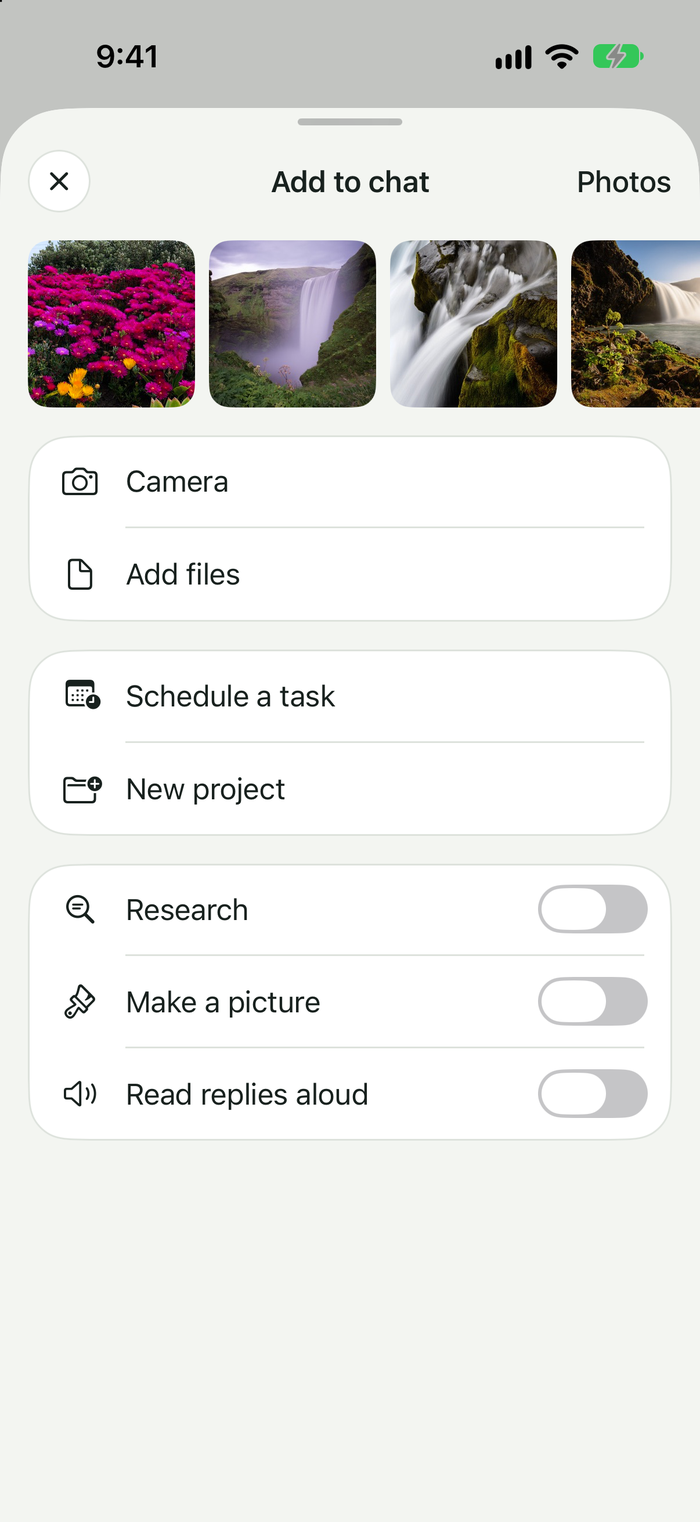
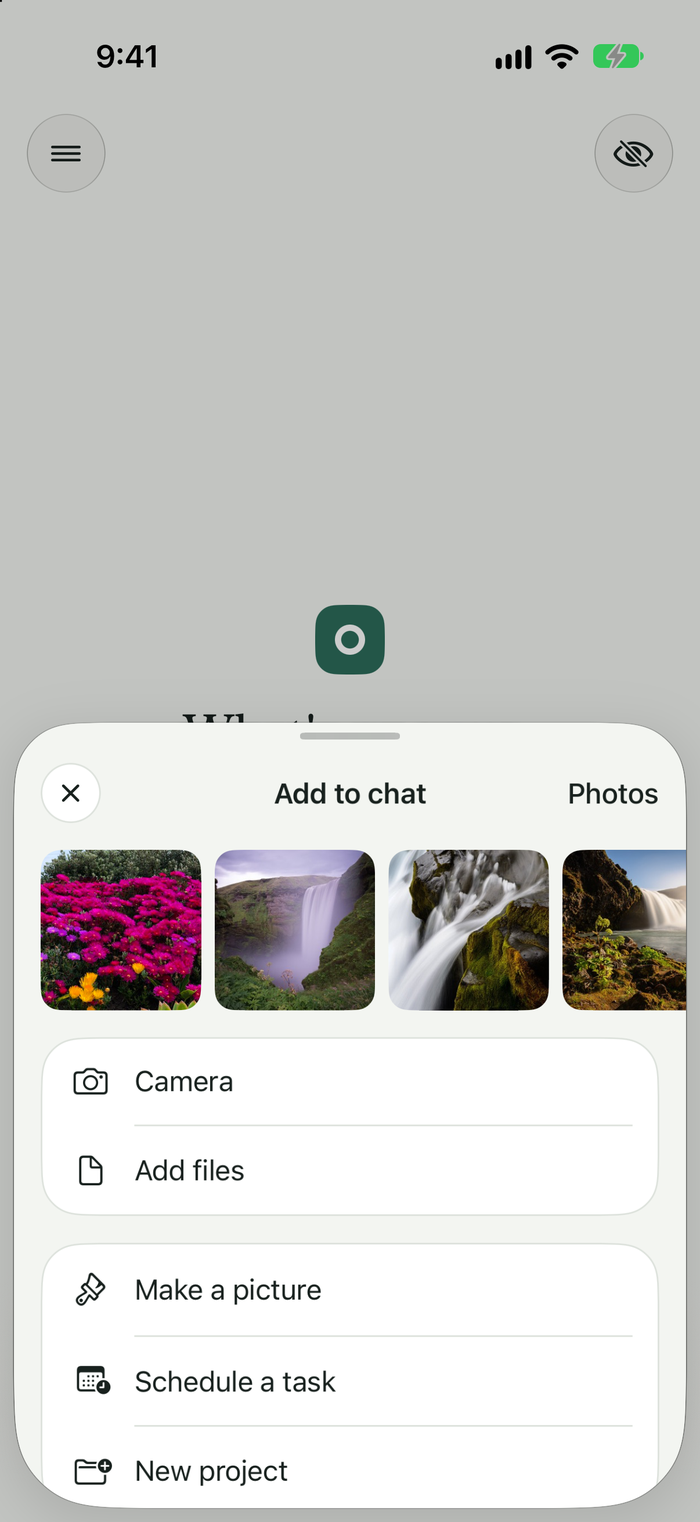
feat: choose a picture as a row, add its photo from the composer, and switch research from the model sheet too - Update `AttachmentMenu.swift`, `AttachmentSheet.swift` picture mode is a row that closes the sheet, ticked while it is on - Create `PicturePhotoButton.swift` beside the picture chip, adds

diff --git a/HearthKit/Sources/HearthUI/Screens/Chat/Components/AttachmentSheet.swift b/HearthKit/Sources/HearthUI/Screens/Chat/Components/AttachmentSheet.swift
@@ -3,8 +3,8 @@ import SwiftUI
 import UIKit
 
 /// What the plus button opens on a phone or a tablet: a heading with the way out and the photo library either side
-/// of it, then cards of rows. The first card holds the things to add, the second the things to make, and the last
-/// the switches, which are thrown where they stand without closing the sheet.
+/// of it, the latest photos, then cards of rows. The first card holds the things to add, the second the things to
+/// make, and the last the switches, which are thrown where they stand without closing the sheet.
 struct AttachmentSheet: View {
     private static let closeButtonSide: CGFloat = 36
 
@@ -137,47 +137,33 @@ struct AttachmentSheet: View {
     /// A row that does something and closes the sheet.
     private func row(_ choice: AttachmentChoiceKind) -> some View {
         let isEnabled = isEnabled(choice)
+        let isOn = isOn(choice)
         return Button(action: { chooseAction(choice) }, label: {
-            label(choice)
-                .padding(.horizontal, HearthSpacing.s16)
-                .padding(.vertical, HearthSpacing.s16)
-                .contentShape(Rectangle())
+            HStack(spacing: HearthSpacing.s12) {
+                label(choice)
+                // A row that is on, such as picture mode, says so with a tick; tapping it again turns it off.
+                Image(systemName: "checkmark")
+                    .font(.hearth(.footnote).weight(.semibold))
+                    .foregroundStyle(HearthColor.pine)
+                    .opacity(isOn ? 1 : 0)
+                    .accessibilityHidden(true)
+            }
+            .padding(.horizontal, HearthSpacing.s16)
+            .padding(.vertical, HearthSpacing.s16)
+            .contentShape(Rectangle())
         })
         .buttonStyle(.plain)
         .disabled(!isEnabled)
         .opacity(isEnabled ? 1 : 0.4)
         .accessibilityLabel(choice.title)
+        .accessibilityAddTraits(isOn ? .isSelected : [])
     }
 
     /// A row with a switch, thrown by a tap anywhere on the row.
     private func switchRow(_ choice: AttachmentChoiceKind) -> some View {
-        AttachmentSwitch(isOn: isOn(choice), toggleAction: { toggleAction(choice) }, label: { label(choice) })
+        ActionSwitch(isOn: isOn(choice), toggleAction: { toggleAction(choice) }, label: { label(choice) })
             .padding(.horizontal, HearthSpacing.s16)
             .padding(.vertical, HearthSpacing.s12)
-    }
-}
-
-/// A switch that shows what it is told is so, and asks for a change when it is thrown.
-///
-/// The switch keeps its own position while it moves and is set right again by whatever it is told, so a change
-/// that is refused, or one made elsewhere, is shown as it is.
-private struct AttachmentSwitch<Label: View>: View {
-    let isOn: Bool
-    let toggleAction: () -> Void
-    @ViewBuilder let label: () -> Label
-
-    @State private var position = false
-
-    var body: some View {
-        Toggle(isOn: $position, label: label)
-            .tint(HearthColor.pine)
-            .onAppear { position = isOn }
-            .onChange(of: isOn) { position = isOn }
-            .onChange(of: position) {
-                if position != isOn {
-                    toggleAction()
-                }
-            }
     }
 }
 

diff --git a/HearthKit/Sources/HearthUI/Screens/Chat/Components/AttachmentMenu.swift b/HearthKit/Sources/HearthUI/Screens/Chat/Components/AttachmentMenu.swift
@@ -60,16 +60,13 @@ enum AttachmentChoiceKind: Identifiable, Hashable {
 }
 
 /// The plus button: photos from the library or the camera for models that can see, files for any model,
-/// the switches that have the next message researched or answered with a picture and have replies read aloud, a scheduled task asking
+/// the switches that have the next message researched and have replies read aloud, picture mode, a scheduled task asking
 /// what is being written, and a new project.
 ///
 /// On a phone or a tablet it opens a sheet from the foot of the screen; on a Mac, a menu at the pointer.
 struct AttachmentMenu: View {
-    private static let maximumPhotoCount = 4
-
     let presenter: ChatPresenter
 
-    @State private var pickedItems: [PhotosPickerItem] = []
     @State private var isPhotoPickerPresented = false
     @State private var isCameraPresented = false
     @State private var isFileImporterPresented = false
@@ -84,15 +81,7 @@ struct AttachmentMenu: View {
             .fixedSize()
             .accessibilityLabel(Strings.addMenu)
             .largeContentLabel(Strings.addMenu, systemImage: "plus")
-            .photosPicker(isPresented: $isPhotoPickerPresented, selection: $pickedItems, maxSelectionCount: Self.maximumPhotoCount, matching: .images)
-            .onChange(of: pickedItems) {
-                let items = pickedItems
-                guard !items.isEmpty else {
-                    return
-                }
-                pickedItems = []
-                Task { presenter.addImagesAction(await PhotoLoader.jpegData(from: items)) }
-            }
+            .photoAttaching(isPresented: $isPhotoPickerPresented, presenter: presenter)
             .fullScreenCover(isPresented: $isCameraPresented) {
                 CameraPicker { imageData in
                     presenter.addImagesAction([imageData])
@@ -113,13 +102,14 @@ struct AttachmentMenu: View {
 
     /// The switches: what the next message asks for, and how replies are given.
     private var switches: [AttachmentChoiceKind] {
-        (presenter.isSearchAvailable ? [.research] : [])
-            + (presenter.isPictureAvailable ? [.pictureMode] : [])
-            + (presenter.isSpeechAvailable ? [.readAloud] : [])
+        (presenter.isSearchAvailable ? [.research] : []) + (presenter.isSpeechAvailable ? [.readAloud] : [])
     }
 
-    /// The things to make.
-    private var makers: [AttachmentChoiceKind] { [.scheduleTask, .newProject] }
+    /// The things to make. A picture is one of them: choosing it closes the sheet with the composer ready for
+    /// what the picture should show, and a photo to change is added from the composer itself.
+    private var makers: [AttachmentChoiceKind] {
+        (presenter.isPictureAvailable ? [.pictureMode] : []) + [.scheduleTask, .newProject]
+    }
 
     private func isEnabled(_ choice: AttachmentChoiceKind) -> Bool {
         switch choice {

diff --git a/HearthKit/Sources/HearthUI/Screens/Chat/Components/ModelPickerSheet.swift b/HearthKit/Sources/HearthUI/Screens/Chat/Components/ModelPickerSheet.swift
@@ -31,6 +31,12 @@ struct ModelPickerSheet: View {
                 effortRow
                     .padding(.horizontal, HearthSpacing.s16)
                     .padding(.top, HearthSpacing.s8)
+                    .padding(.bottom, HearthSpacing.s8)
+            }
+            // The same switch as behind the plus button: thrown in either place, it shows in both.
+            if !isPictureMode, presenter.isSearchAvailable {
+                researchRow
+                    .padding(.horizontal, HearthSpacing.s16)
                     .padding(.bottom, HearthSpacing.s16)
             }
         }
@@ -96,6 +102,24 @@ struct ModelPickerSheet: View {
     /// The mark beside an option in the effort menu: a tick for the chosen one, and nothing for the rest.
     nonisolated static func menuSymbol(isChosen: Bool) -> String? {
         isChosen ? "checkmark" : nil
+    }
+
+    /// Whether the next messages of this chat are researched on the web. Apart from the effort, which a report is
+    /// thought about at like any reply.
+    private var researchRow: some View {
+        ActionSwitch(isOn: presenter.isResearchChosen, toggleAction: presenter.toggleResearchAction) {
+            VStack(alignment: .leading, spacing: HearthSpacing.s2) {
+                Text(Strings.researchSwitch)
+                    .font(.hearth(.body))
+                    .foregroundStyle(HearthColor.ink)
+                Text(Strings.researchDetail)
+                    .font(.hearth(.footnote))
+                    .foregroundStyle(HearthColor.mute)
+            }
+        }
+        .padding(.horizontal, HearthSpacing.s16)
+        .padding(.vertical, HearthSpacing.s12)
+        .cardSurface(radius: HearthRadius.bubble)
     }
 
     /// The effort that goes into a reply: how hard the chosen model thinks before it. A menu, since the choices are

diff --git a/HearthKit/Sources/HearthUI/Screens/Chat/Attachments/PhotoAttaching.swift b/HearthKit/Sources/HearthUI/Screens/Chat/Attachments/PhotoAttaching.swift
@@ -1,0 +1,33 @@
+import PhotosUI
+import SwiftUI
+
+/// Opens the system's photo picker and adds what is picked to the message being written.
+private struct PhotoAttaching: ViewModifier {
+    /// The most photos added at once.
+    private static let maximumPhotoCount = 4
+
+    @Binding var isPresented: Bool
+    let presenter: ChatPresenter
+
+    @State private var pickedItems: [PhotosPickerItem] = []
+
+    func body(content: Content) -> some View {
+        content
+            .photosPicker(isPresented: $isPresented, selection: $pickedItems, maxSelectionCount: Self.maximumPhotoCount, matching: .images)
+            .onChange(of: pickedItems) {
+                let items = pickedItems
+                guard !items.isEmpty else {
+                    return
+                }
+                pickedItems = []
+                Task { presenter.addImagesAction(await PhotoLoader.jpegData(from: items)) }
+            }
+    }
+}
+
+extension View {
+    /// Shows the photo picker while `isPresented` is set, and adds the photos picked to the presenter's message.
+    func photoAttaching(isPresented: Binding<Bool>, presenter: ChatPresenter) -> some View {
+        modifier(PhotoAttaching(isPresented: isPresented, presenter: presenter))
+    }
+}

diff --git a/HearthKit/Sources/HearthUI/DesignSystem/Components/ActionSwitch.swift b/HearthKit/Sources/HearthUI/DesignSystem/Components/ActionSwitch.swift
@@ -1,0 +1,25 @@
+import SwiftUI
+
+/// A switch that shows what it is told is so, and asks for a change when it is thrown.
+///
+/// The switch keeps its own position while it moves and is set right again by whatever it is told, so a change
+/// that is refused, or one made elsewhere, is shown as it is.
+struct ActionSwitch<Label: View>: View {
+    let isOn: Bool
+    let toggleAction: () -> Void
+    @ViewBuilder let label: () -> Label
+
+    @State private var position = false
+
+    var body: some View {
+        Toggle(isOn: $position, label: label)
+            .tint(HearthColor.pine)
+            .onAppear { position = isOn }
+            .onChange(of: isOn) { position = isOn }
+            .onChange(of: position) {
+                if position != isOn {
+                    toggleAction()
+                }
+            }
+    }
+}

diff --git a/HearthKit/Sources/HearthUI/Localization/Strings+Menus.swift b/HearthKit/Sources/HearthUI/Localization/Strings+Menus.swift
@@ -7,6 +7,7 @@ extension Strings {
     static let moveToProjectEllipsis = String(localized: "project.moveEllipsis", defaultValue: "Move to project…", bundle: .module)
     /// The composer's + button, which holds files and photos, pictures, a scheduled task and a new project.
     static let addToChat = String(localized: "composer.addTitle", defaultValue: "Add to chat", bundle: .module)
+    static let picturePhoto = String(localized: "picture.addPhoto", defaultValue: "Add a photo to change", bundle: .module)
     static let photos = String(localized: "composer.photos", defaultValue: "Photos", bundle: .module)
     static func recentPhoto(number: Int, total: Int) -> String {
         String(localized: "composer.recentPhoto", defaultValue: "Recent photo \(number) of \(total)", bundle: .module)

diff --git a/HearthKit/Sources/HearthUI/Screens/Chat/Components/PicturePhotoButton.swift b/HearthKit/Sources/HearthUI/Screens/Chat/Components/PicturePhotoButton.swift
@@ -1,0 +1,19 @@
+import SwiftUI
+
+/// Beside the picture chip while a picture is being asked for: adds a photo for the picture server to change, so
+/// that it is plain a photo can be changed and there is no need to go back to the plus button for one.
+struct PicturePhotoButton: View {
+    let presenter: ChatPresenter
+
+    @State private var isPickerPresented = false
+
+    var body: some View {
+        Button(action: { isPickerPresented = true }, label: {
+            OptionChip(systemImage: "photo.badge.plus", isOn: false)
+        })
+        .buttonStyle(.plain)
+        .accessibilityLabel(Strings.picturePhoto)
+        .largeContentLabel(Strings.picturePhoto, systemImage: "photo.badge.plus")
+        .photoAttaching(isPresented: $isPickerPresented, presenter: presenter)
+    }
+}

diff --git a/HearthKit/Sources/HearthUI/Localization/Strings+Research.swift b/HearthKit/Sources/HearthUI/Localization/Strings+Research.swift
@@ -4,6 +4,7 @@ import Foundation
 // swiftlint:disable line_length
 extension Strings {
     static let research = String(localized: "research.title", defaultValue: "Deep research", bundle: .module)
+    static let researchDetail = String(localized: "research.detail", defaultValue: "Searches, reads the pages and writes a sourced report", bundle: .module)
     static let researchSwitch = String(localized: "research.switch", defaultValue: "Research", bundle: .module)
     static let effortStandard = String(localized: "research.effortStandard", defaultValue: "Standard", bundle: .module)
     static let researchPlaceholder = String(localized: "research.placeholder", defaultValue: "Ask a question to research", bundle: .module)

diff --git a/HearthKit/Sources/HearthUI/Screens/Chat/Components/ComposerFooter.swift b/HearthKit/Sources/HearthUI/Screens/Chat/Components/ComposerFooter.swift
@@ -346,6 +346,7 @@ private extension ComposerFooter {
                 AttachmentMenu(presenter: presenter)
                 if viewModel.isPictureMode {
                     pictureModeChip
+                    PicturePhotoButton(presenter: presenter)
                 }
                 if isExpanded, !isChipOnOwnRow {
                     modelChip

diff --git a/README.md b/README.md
@@ -31,7 +31,7 @@ and run scheduled tasks. Nothing goes through anyone else's service unless you p
 - **Streamed Markdown**: headings, lists, quotes, tables, maths, and coloured code blocks that copy and open full size
 - **Web search** through your SearXNG. A model that can call tools searches when it needs to, reads the top pages
   and cites them; the sources show under the reply
-- **Deep research**: switch Research on under the + button, ask a question, and the chat's model plans searches, reads a dozen
+- **Deep research**: switch Research on under the + button or in the model sheet, ask a question, and the chat's model plans searches, reads a dozen
   pages, takes notes and writes a report with numbered sources. The steps show while it works
 - **Canvas**: a web page, an SVG drawing, a Markdown document or a long piece of code in a reply opens in its own
   panel, beside the chat on an iPad or a Mac, as a sheet on a phone. Pages run their own scripts but cannot reach
@@ -84,7 +84,7 @@ and run scheduled tasks. Nothing goes through anyone else's service unless you p
 
 | | | |
 |:---:|:---:|:---:|
-| <img src="docs/screenshots/models.png" width="240" alt="The model sheet with gemma4 on your server and two cloud models"><br>Models on your server and in the cloud | <img src="docs/screenshots/plus-menu.png" width="240" alt="The + sheet: your latest photos, camera and add files, schedule a task and new project, then switches for research, make a picture and read replies aloud"><br>The + sheet | <img src="docs/screenshots/canvas.png" width="240" alt="A tip calculator page running in the canvas"><br>A page in the canvas |
+| <img src="docs/screenshots/models.png" width="240" alt="The model sheet with gemma4 on your server and two cloud models"><br>Models on your server and in the cloud | <img src="docs/screenshots/plus-menu.png" width="240" alt="The + sheet: your latest photos, camera and add files, then make a picture, schedule a task and new project, and switches for research and read replies aloud"><br>The + sheet | <img src="docs/screenshots/canvas.png" width="240" alt="A tip calculator page running in the canvas"><br>A page in the canvas |
 | <img src="docs/screenshots/voice.png" width="240" alt="A voice conversation, listening"><br>Voice conversation | <img src="docs/screenshots/project.png" width="240" alt="The chat list showing one project's chats"><br>A project's chats | <img src="docs/screenshots/project-editor.png" width="240" alt="A project's name, instructions and reference files"><br>A project's instructions |
 | <img src="docs/screenshots/settings.png" width="240" alt="Settings: profile, memory, follow-ups, web search, scheduled tasks, voice and pictures"><br>Settings | <img src="docs/screenshots/settings-bottom.png" width="240" alt="Settings: notifications, theme, vibration, the lock, servers, sync and erase"><br>More settings | <img src="docs/screenshots/memory.png" width="240" alt="The memory page with four saved memories"><br>Memory |
 | <img src="docs/screenshots/servers.png" width="240" alt="Server addresses with a successful connection test"><br>Servers | <img src="docs/screenshots/sync.png" width="240" alt="Sync with a hub address, a saved access key and sync on"><br>Sync with your hub | <img src="docs/screenshots/tasks.png" width="240" alt="Two scheduled tasks with their schedules and last runs"><br>Scheduled tasks |

diff --git a/docs/ARCHITECTURE.md b/docs/ARCHITECTURE.md
@@ -189,9 +189,10 @@ A `Conversation` points at its project through `projectID`; the project knows no
 Research answers one question with a report written from pages the app searched for and read. It is a turn like
 any other: it runs with the chat's selected model, streams into a reply, and is saved in the conversation.
 
-- **Switched on, beside the effort.** Research is a switch behind the + button (`AttachmentChoiceKind.research`),
-  shown where there is a search address. The model sheet's Effort menu lists the thinking levels only, and is
-  left out for a model that cannot think. The two are independent: research is never a thinking level and is
+- **Switched on, beside the effort.** Research is a switch behind the + button (`AttachmentChoiceKind.research`)
+  and again in the model sheet under Effort, shown where there is a search address; both are the one
+  `isResearchMode`, so throwing either shows in the other. The model sheet's Effort menu lists the thinking levels
+  only, and is left out for a model that cannot think. The two are independent: research is never a thinking level and is
   never sent to the model as one, and while it is on the model thinks at the level chosen, so a report can be
   thought about as hard or as lightly as any reply. `EffortChoiceKind` names what the next message is given,
   `.thinking(ThinkingLevelKind)` or `.research`, for the composer's chip. A thinking level is saved for every chat
